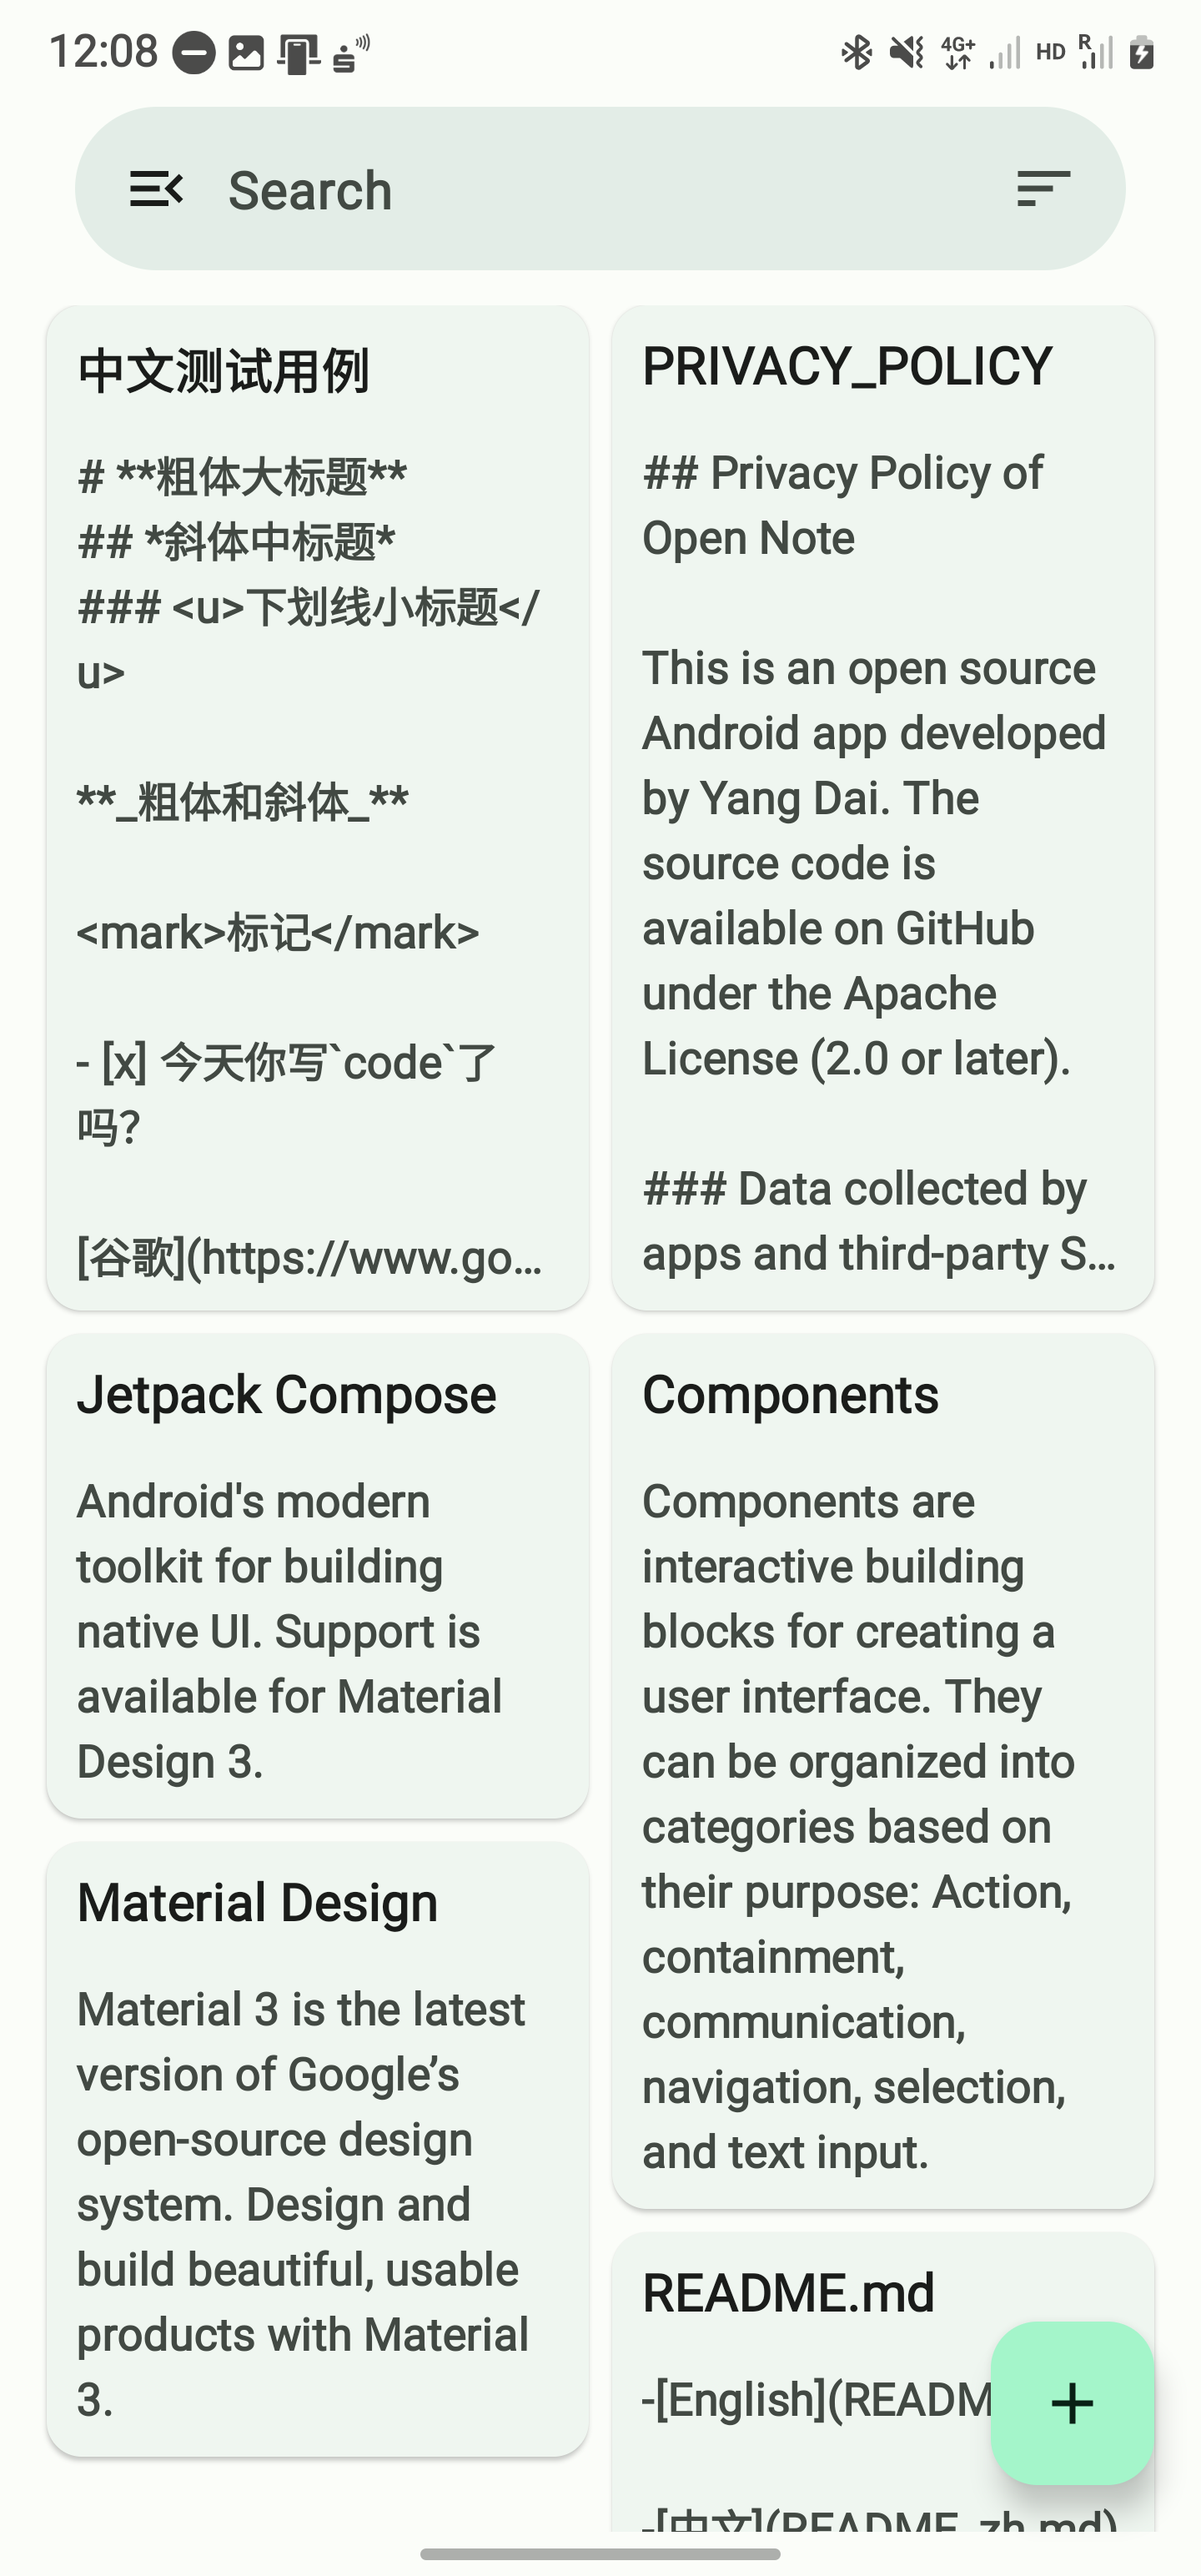
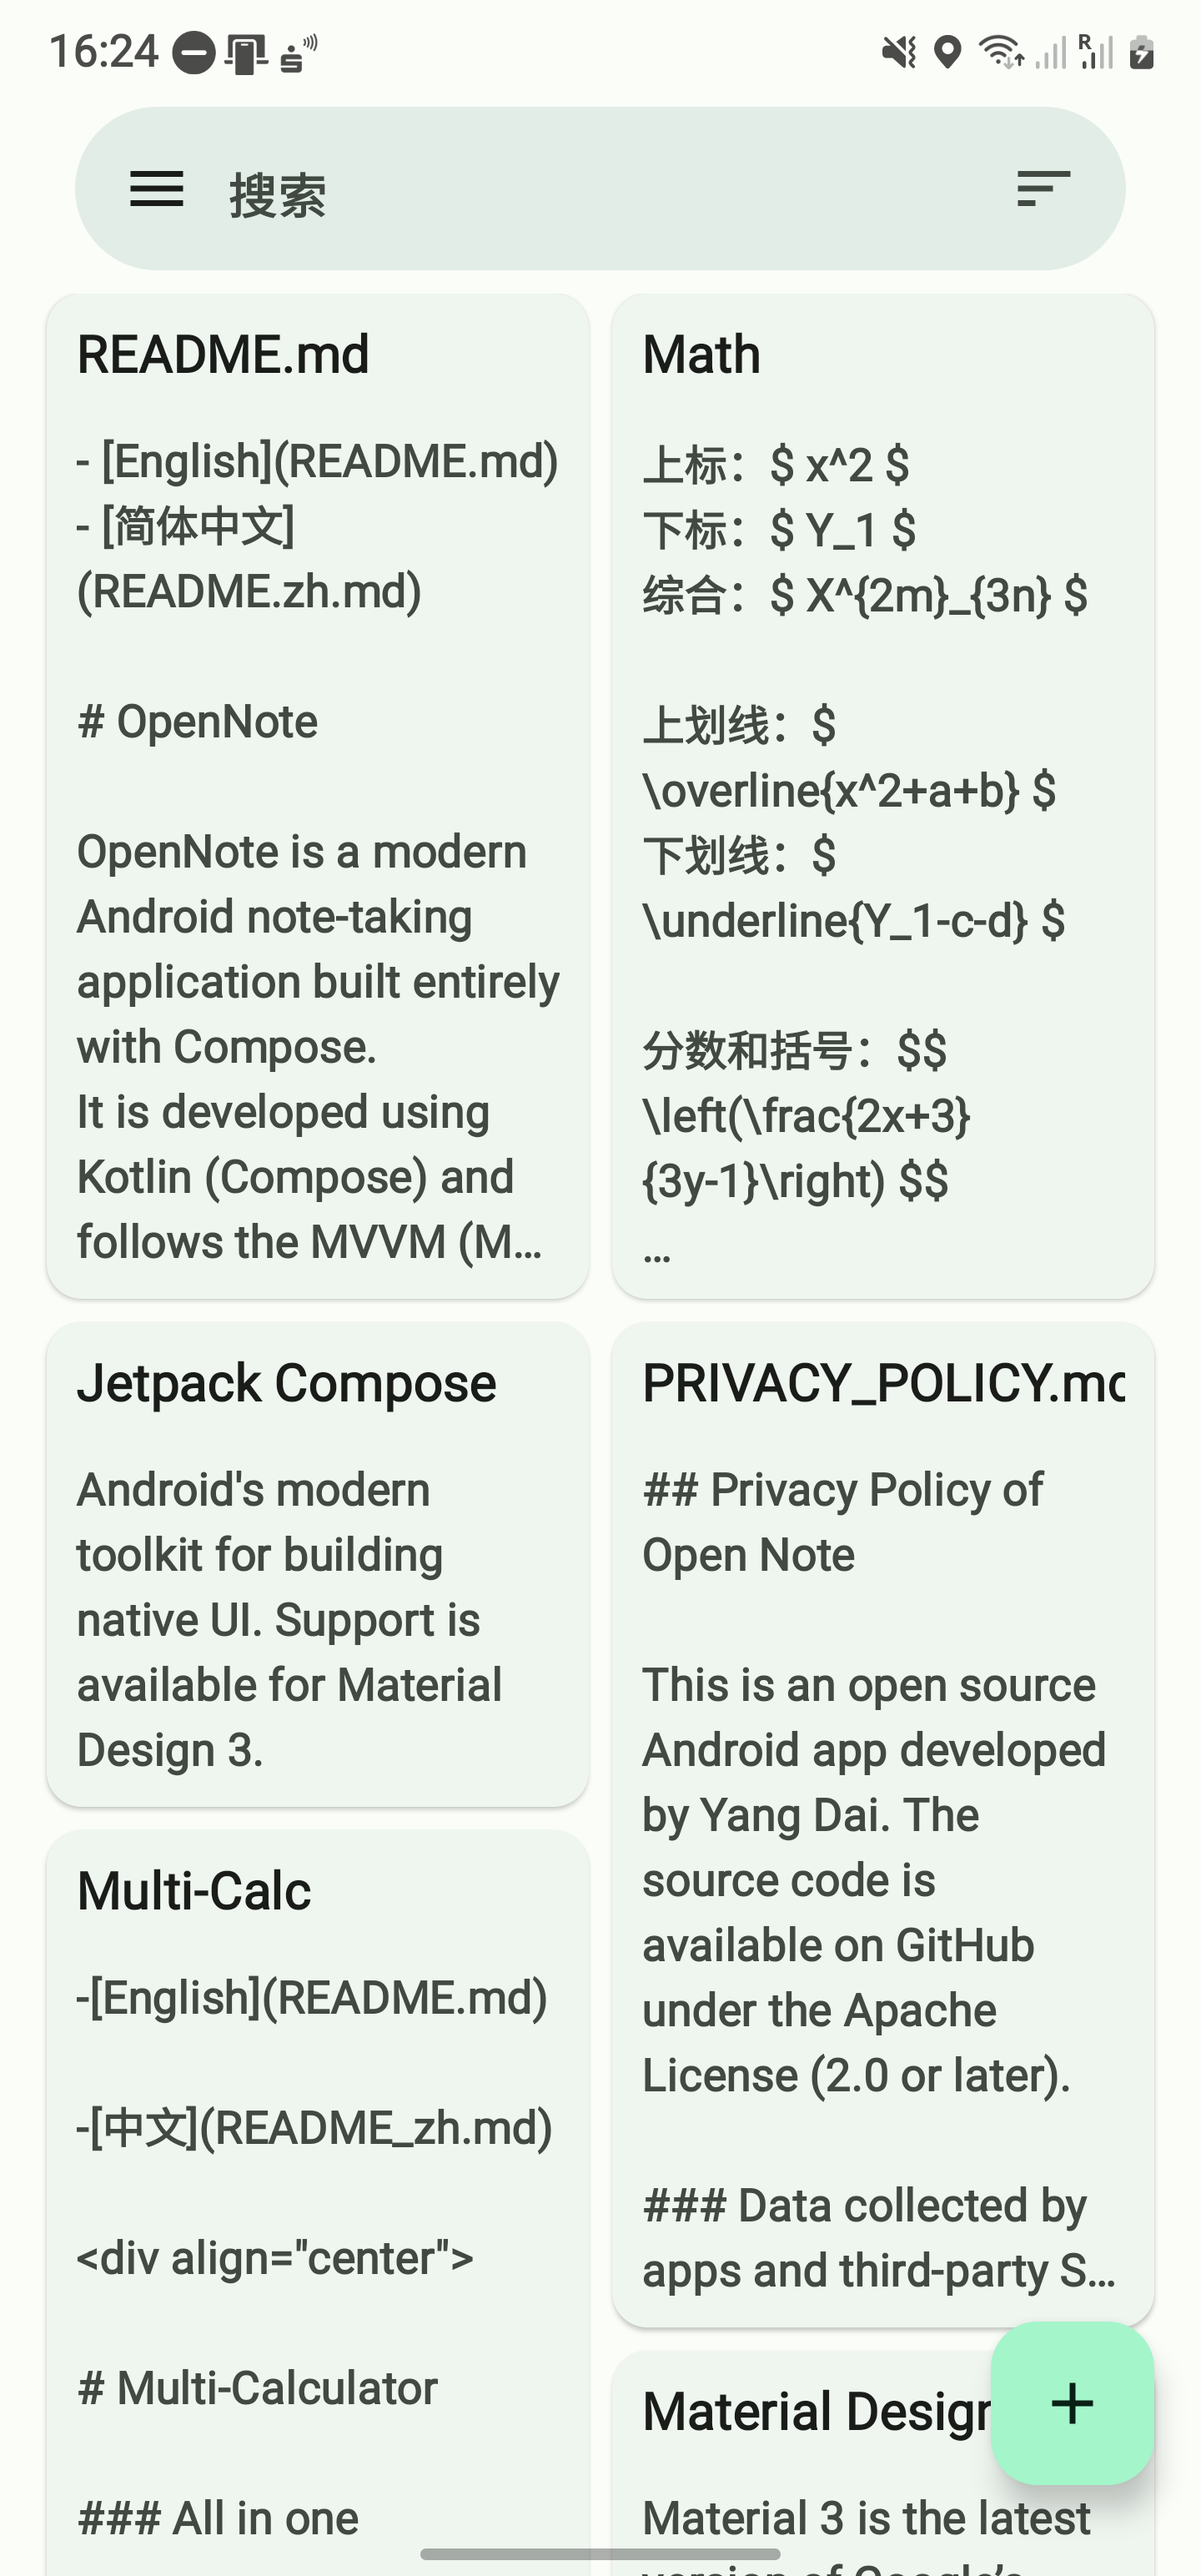
add latex math support

diff --git a/app/src/main/java/com/yangdai/opennote/presentation/screen/NoteScreen.kt b/app/src/main/java/com/yangdai/opennote/presentation/screen/NoteScreen.kt
@@ -265,6 +265,7 @@ fun NoteScreen(
                 })
         },
         bottomBar = {
+
             NoteEditorRow(
                 isReadMode = isReadMode,
                 noteState = state,
@@ -272,6 +273,7 @@ fun NoteScreen(
                 navController = navController,
                 onTaskButtonClick = { showTaskDialog = true },
                 onLinkButtonClick = { showLinkDialog = true })
+
         }
     ) { paddingValues ->
         Column(
@@ -373,6 +375,7 @@ fun NoteScreen(
                                         return true
                                     }
                                 }
+                                settings.javaScriptEnabled = true
                                 isVerticalScrollBarEnabled = false
                                 isHorizontalScrollBarEnabled = false
                                 settings.setSupportZoom(true)
@@ -384,14 +387,37 @@ fun NoteScreen(
                                     null,
                                     """
                                 <!DOCTYPE html>
-                                <html><head>
-                                <style type="text/css">
-                                body{color: ${hexColor}; padding: 0px; margin: 0px;}
-                                </style>
+                                <html>
+                                <head>
+                                      <link rel="stylesheet" href="https://cdn.jsdelivr.net/npm/katex@0.16.10/dist/katex.min.css" integrity="sha384-wcIxkf4k558AjM3Yz3BBFQUbk/zgIYC2R0QpeeYb+TwlBVMrlgLqwRjRtGZiK7ww" crossorigin="anonymous">
+                                      <script defer src="https://cdn.jsdelivr.net/npm/katex@0.16.10/dist/katex.min.js" integrity="sha384-hIoBPJpTUs74ddyc4bFZSM1TVlQDA60VBbJS0oA934VSz82sBx1X7kSx2ATBDIyd" crossorigin="anonymous"></script>
+                                      <script defer src="https://cdn.jsdelivr.net/npm/katex@0.16.10/dist/contrib/auto-render.min.js" integrity="sha384-43gviWU0YVjaDtb/GhzOouOXtZMP/7XUzwPTstBeZFe/+rCMvRwr4yROQP43s0Xk" crossorigin="anonymous"></script>
+                                      <script>
+                                          document.addEventListener("DOMContentLoaded", function() {
+                                              renderMathInElement(document.body, {
+                                                delimiters: 
+[
+  {left: "${'$'}${'$'}", right: "${'$'}${'$'}", display: true},
+  {left: "${'$'}", right: "${'$'}", display: false},
+  {left: "\\(", right: "\\)", display: false},
+  {left: "\\begin{equation}", right: "\\end{equation}", display: true},
+  {left: "\\begin{align}", right: "\\end{align}", display: true},
+  {left: "\\begin{alignat}", right: "\\end{alignat}", display: true},
+  {left: "\\begin{gather}", right: "\\end{gather}", display: true},
+  {left: "\\begin{CD}", right: "\\end{CD}", display: true},
+  {left: "\\[", right: "\\]", display: true}
+],
+                                                throwOnError : false
+                                              });
+                                          });
+                                      </script>
+                                      <style type="text/css"> body{color: ${hexColor}; padding: 0px; margin: 0px;}
+                                      </style>
                                 </head>
                                 <body>
                                 $html
-                                </body></html>
+                                </body>
+                                </html>
                                 """.trimIndent(),
                                     "text/html",
                                     "UTF-8",

diff --git a/app/src/main/java/com/yangdai/opennote/presentation/component/NoteEditorRow.kt b/app/src/main/java/com/yangdai/opennote/presentation/component/NoteEditorRow.kt
@@ -15,11 +15,15 @@ import androidx.compose.material.icons.filled.FormatStrikethrough
 import androidx.compose.material.icons.outlined.CheckBox
 import androidx.compose.material.icons.outlined.Code
 import androidx.compose.material.icons.outlined.DocumentScanner
+import androidx.compose.material.icons.outlined.EmojiEmotions
+import androidx.compose.material.icons.outlined.EmojiSymbols
 import androidx.compose.material.icons.outlined.FormatBold
 import androidx.compose.material.icons.outlined.FormatItalic
 import androidx.compose.material.icons.outlined.FormatPaint
 import androidx.compose.material.icons.outlined.FormatUnderlined
+import androidx.compose.material.icons.outlined.InsertEmoticon
 import androidx.compose.material.icons.outlined.Link
+import androidx.compose.material.icons.outlined.Title
 import androidx.compose.material3.HorizontalDivider
 import androidx.compose.material3.Icon
 import androidx.compose.material3.IconButton
@@ -27,8 +31,10 @@ import androidx.compose.material3.MaterialTheme
 import androidx.compose.runtime.Composable
 import androidx.compose.ui.Alignment
 import androidx.compose.ui.Modifier
+import androidx.compose.ui.res.painterResource
 import androidx.compose.ui.unit.dp
 import androidx.navigation.NavController
+import com.yangdai.opennote.R
 import com.yangdai.opennote.presentation.navigation.Route
 import com.yangdai.opennote.presentation.state.NoteState
 import com.yangdai.opennote.presentation.viewmodel.NoteScreenViewModel
@@ -83,6 +89,14 @@ fun NoteEditorRow(
                 }
 
                 if (noteState.isMarkdown) {
+
+                    IconButton(onClick = { viewModel.title() }) {
+                        Icon(
+                            imageVector = Icons.Outlined.Title,
+                            contentDescription = "Title"
+                        )
+                    }
+
                     IconButton(onClick = { viewModel.bold() }) {
                         Icon(
                             imageVector = Icons.Outlined.FormatBold,
@@ -122,6 +136,13 @@ fun NoteEditorRow(
                         Icon(
                             imageVector = Icons.Outlined.Code,
                             contentDescription = "Code"
+                        )
+                    }
+
+                    IconButton(onClick = { viewModel.inlineFunction() }) {
+                        Icon(
+                            painter = painterResource(id = R.drawable.function),
+                            contentDescription = "Function"
                         )
                     }
 

diff --git a/app/src/main/java/com/yangdai/opennote/presentation/viewmodel/NoteScreenViewModel.kt b/app/src/main/java/com/yangdai/opennote/presentation/viewmodel/NoteScreenViewModel.kt
@@ -13,10 +13,12 @@ import com.yangdai.opennote.presentation.event.NoteEvent
 import com.yangdai.opennote.presentation.state.NoteState
 import com.yangdai.opennote.presentation.event.UiEvent
 import com.yangdai.opennote.presentation.util.Constants.MIME_TYPE_TEXT
+import com.yangdai.opennote.presentation.util.add
 import com.yangdai.opennote.presentation.util.addLink
 import com.yangdai.opennote.presentation.util.addTask
 import com.yangdai.opennote.presentation.util.bold
 import com.yangdai.opennote.presentation.util.inlineCode
+import com.yangdai.opennote.presentation.util.inlineFunction
 import com.yangdai.opennote.presentation.util.italic
 import com.yangdai.opennote.presentation.util.mark
 import com.yangdai.opennote.presentation.util.quote
@@ -129,6 +131,10 @@ class NoteScreenViewModel @Inject constructor(
         textFieldState.undoState.redo()
     }
 
+    fun title() {
+        textFieldState.edit { add("#") }
+    }
+
     fun bold() {
         textFieldState.edit { bold() }
     }
@@ -151,6 +157,10 @@ class NoteScreenViewModel @Inject constructor(
 
     fun inlineCode() {
         textFieldState.edit { inlineCode() }
+    }
+
+    fun inlineFunction() {
+        textFieldState.edit { inlineFunction() }
     }
 
     fun quote() {

diff --git a/app/src/main/java/com/yangdai/opennote/presentation/util/TextFieldMutators.kt b/app/src/main/java/com/yangdai/opennote/presentation/util/TextFieldMutators.kt
@@ -37,6 +37,8 @@ fun TextFieldBuffer.mark() = inlineWrap("<mark>", "</mark>")
 
 fun TextFieldBuffer.inlineCode() = inlineWrap("`")
 
+fun TextFieldBuffer.inlineFunction() = inlineWrap("$")
+
 fun TextFieldBuffer.quote() {
     val text = toString()
     val lineStart = text.take(selectionInChars.min)
@@ -59,12 +61,6 @@ fun TextFieldBuffer.quote() {
 fun TextFieldBuffer.add(str: String) {
     val initialSelection = selectionInChars
     replace(initialSelection.min, initialSelection.max, str)
-    selectCharsIn(
-        TextRange(
-            initialSelection.min,
-            initialSelection.min + str.length
-        )
-    )
 }
 
 fun TextFieldBuffer.addLink(link: String) = add(link)

diff --git a/README.md b/README.md
@@ -27,6 +27,7 @@ This project is still in early stages of construction and features may change, b
 - **Trash Bin**: Safely move notes to the trash for temporary storage before permanent deletion.
 - **OCR Text Recognition**: Utilizes ML Kit and CameraX for optical character recognition (OCR) directly from images.
 - **Markdown Support**: Supports both CommonMark and GitHub Flavored Markdown (GFM) syntax for versatile formatting options.
+- **Latex Math Support**: Supports Latex math syntax for mathematical equations.
 - **Rich Text Mode**: Offers a simplified writing experience with basic rich text editing capabilities.
 - **Export Options**: Notes can be exported in various formats including TXT, MD (Markdown), and HTML for versatile sharing and usage.
 - **Material 3 Design**: Adheres to Material Design guidelines for a modern and cohesive user interface.
@@ -42,6 +43,8 @@ This project is still in early stages of construction and features may change, b
 <img src="https://github.com/YangDai2003/OpenNote-Compose/blob/master/screenshots/Screenshot_4.png" width="15%" alt=""/>
 <img src="https://github.com/YangDai2003/OpenNote-Compose/blob/master/screenshots/Screenshot_5.png" width="15%" alt=""/>
 <img src="https://github.com/YangDai2003/OpenNote-Compose/blob/master/screenshots/Screenshot_6.png" width="15%" alt=""/>
+<img src="https://github.com/YangDai2003/OpenNote-Compose/blob/master/screenshots/Screenshot_7.png" width="15%" alt=""/>
+<img src="https://github.com/YangDai2003/OpenNote-Compose/blob/master/screenshots/Screenshot_8.png" width="15%" alt=""/>
 
 </div>
 
